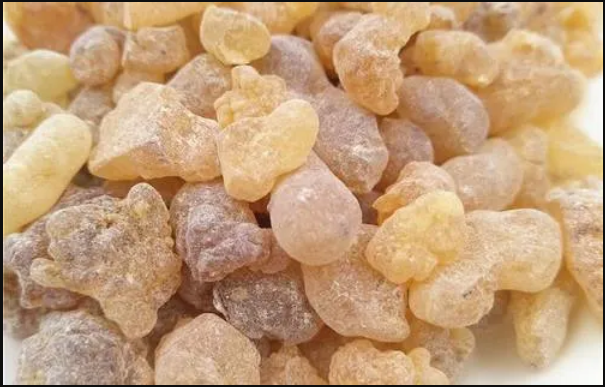
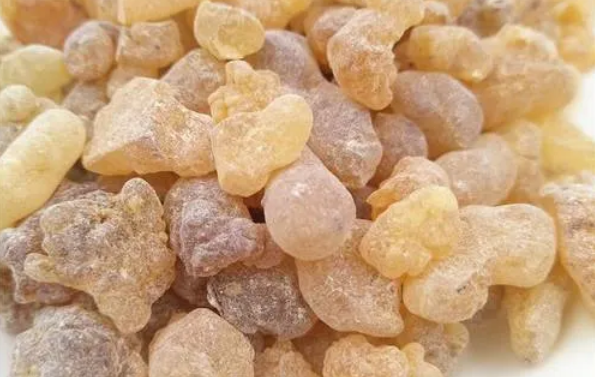
تحديث النصوص في التذييل وتصحيح مسار ملفات الجافا سكريبت

diff --git a/index.html b/index.html
@@ -210,7 +210,7 @@
     <!-- ===== التذييل (Footer) ===== -->
     <footer>
         <div class="footer-content">
-            <div class="footer-logo"><span data-i18n="footer_logo_1">اللبان </span><span data-i18n="footer_logo_2" style="color:var(--text-color);">العُماني</span></div>
+            <div class="footer-logo"><span data-i18n="footer_logo_1">اللبان العُماني</span></div>
             <p class="footer-text" data-i18n="footer_desc">رمز الأصالة العمانية والتراث الممتد عبر آلاف السنين.</p>
             <div class="footer-socials">
                 <a href="https://www.instagram.com/_CyberMC" target="_blank" aria-label="Instagram" class="instagram-link">
@@ -224,8 +224,8 @@
         </div>
     </footer>
 
-    <script src="./Js/lang.js"></script>
-    <script src="./Js/script.js"></script>
-    <script src="./Js/image_click.js"></script>
+    <script src="./js/lang.js"></script>
+    <script src="./js/script.js"></script>
+    <script src="./js/image_click.js"></script>
 </body>
 </html>

diff --git a/Js/lang.js b/Js/lang.js
@@ -37,8 +37,7 @@ const translations = {
         "ben_2": "يساعد في تحسين صحة الجهاز التنفسي وعلاج السعال.",
         "ben_3": "يساهم في تقليل الالتهابات وتهدئة الأعصاب وتخفيف التوتر.",
         "ben_4": "مفيد جداً في تحسين عملية الهضم وصحة المعدة.",
-        "footer_logo_1": "اللبان ",
-        "footer_logo_2": "العُماني",
+        "footer_logo_1": "اللبان العُماني",
         "footer_desc": "رمز الأصالة العمانية والتراث الممتد عبر آلاف السنين.",
         "footer_copy": "موقع اللبان العماني | جميع الحقوق محفوظة لفريق _CyberMC",
         "lang_toggle": "EN"
@@ -81,8 +80,7 @@ const translations = {
         "ben_2": "Helps improve respiratory health and treats coughs.",
         "ben_3": "Contributes to reducing inflammation, calming nerves, and relieving stress.",
         "ben_4": "Highly beneficial in improving digestion and stomach health.",
-        "footer_logo_1": "Omani ",
-        "footer_logo_2": "luban",
+        "footer_logo_1": "Omani luban",
         "footer_desc": "A symbol of Omani authenticity and a heritage extending over millennia.",
         "footer_copy": "Omani luban Website | All rights reserved to _CyberMC Team",
         "lang_toggle": "AR"